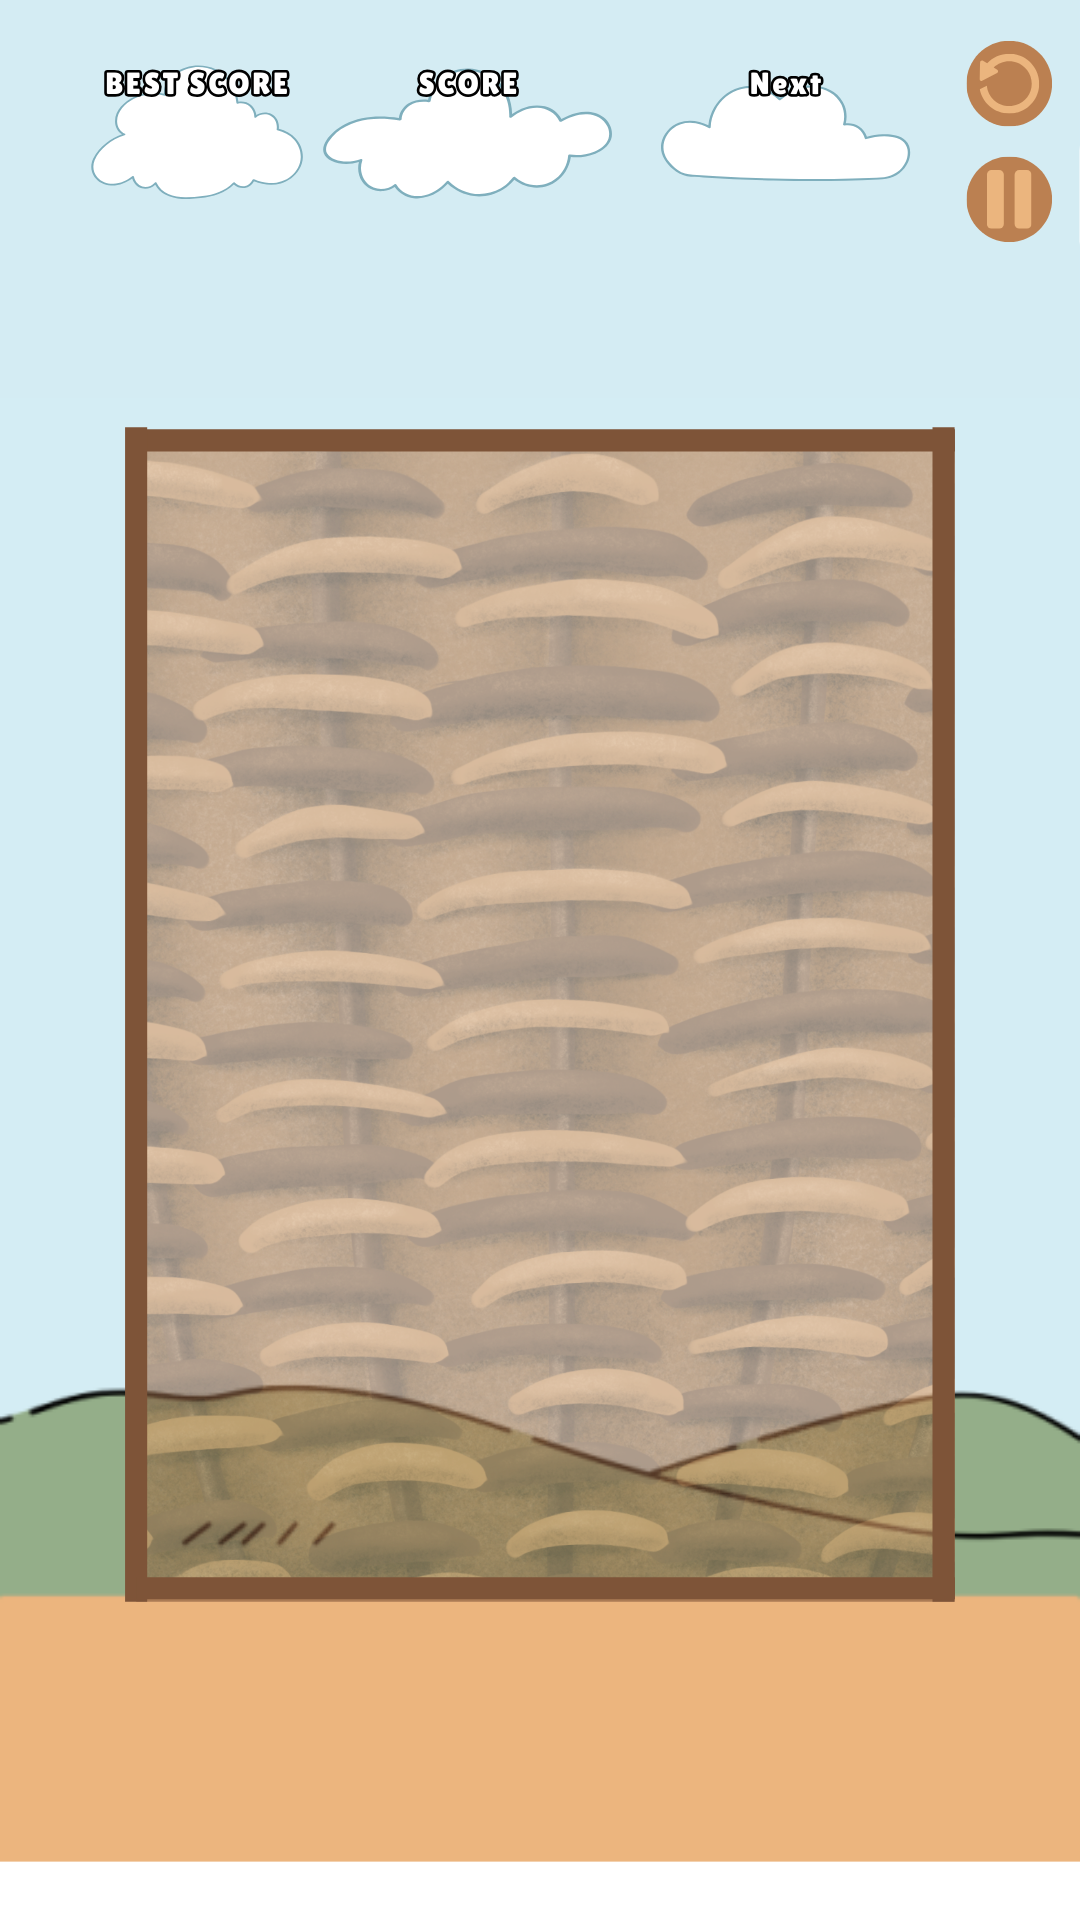
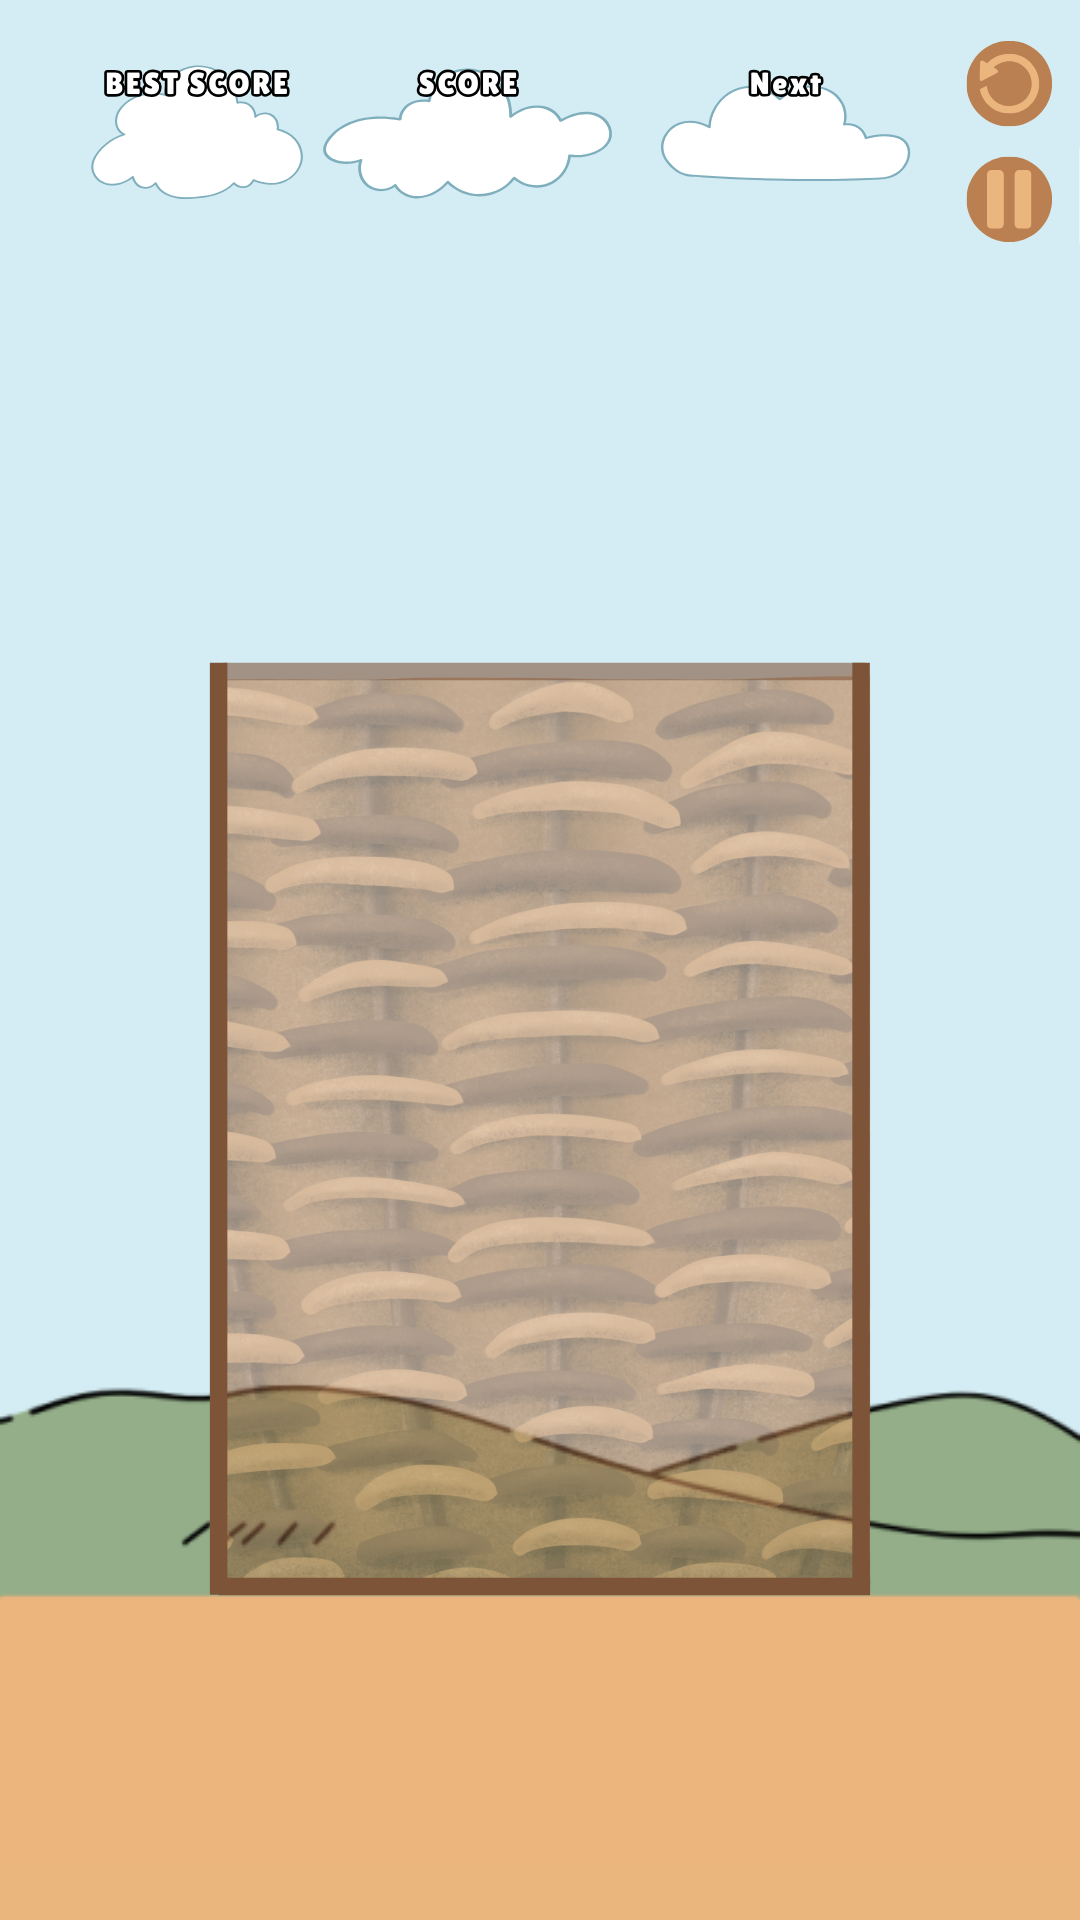
things shu change: *background changes *player height *player starting point

diff --git a/core/src/main/java/com/consul/suika/Suika.java b/core/src/main/java/com/consul/suika/Suika.java
@@ -46,7 +46,7 @@ public class Suika implements ApplicationListener {
 
         playerSprite = new Sprite(player);
 
-        playerSprite.setY(130f);
+        playerSprite.setY(110f);
         playerSprite.setX(43f);
 
         playerSprite.setSize(15,15);
@@ -94,7 +94,7 @@ public class Suika implements ApplicationListener {
     private void logic() {
 
         playerHitbox = new Rectangle(playerSprite.getX(), playerSprite.getY(), playerSprite.getWidth(), playerSprite.getHeight());
-        playerSprite.setX(MathUtils.clamp(playerSprite.getX(), 10, 100 - playerSprite.getWidth()));
+        playerSprite.setX(MathUtils.clamp(playerSprite.getX(), 21, 92.5f - playerSprite.getWidth()));
 
     }
 
